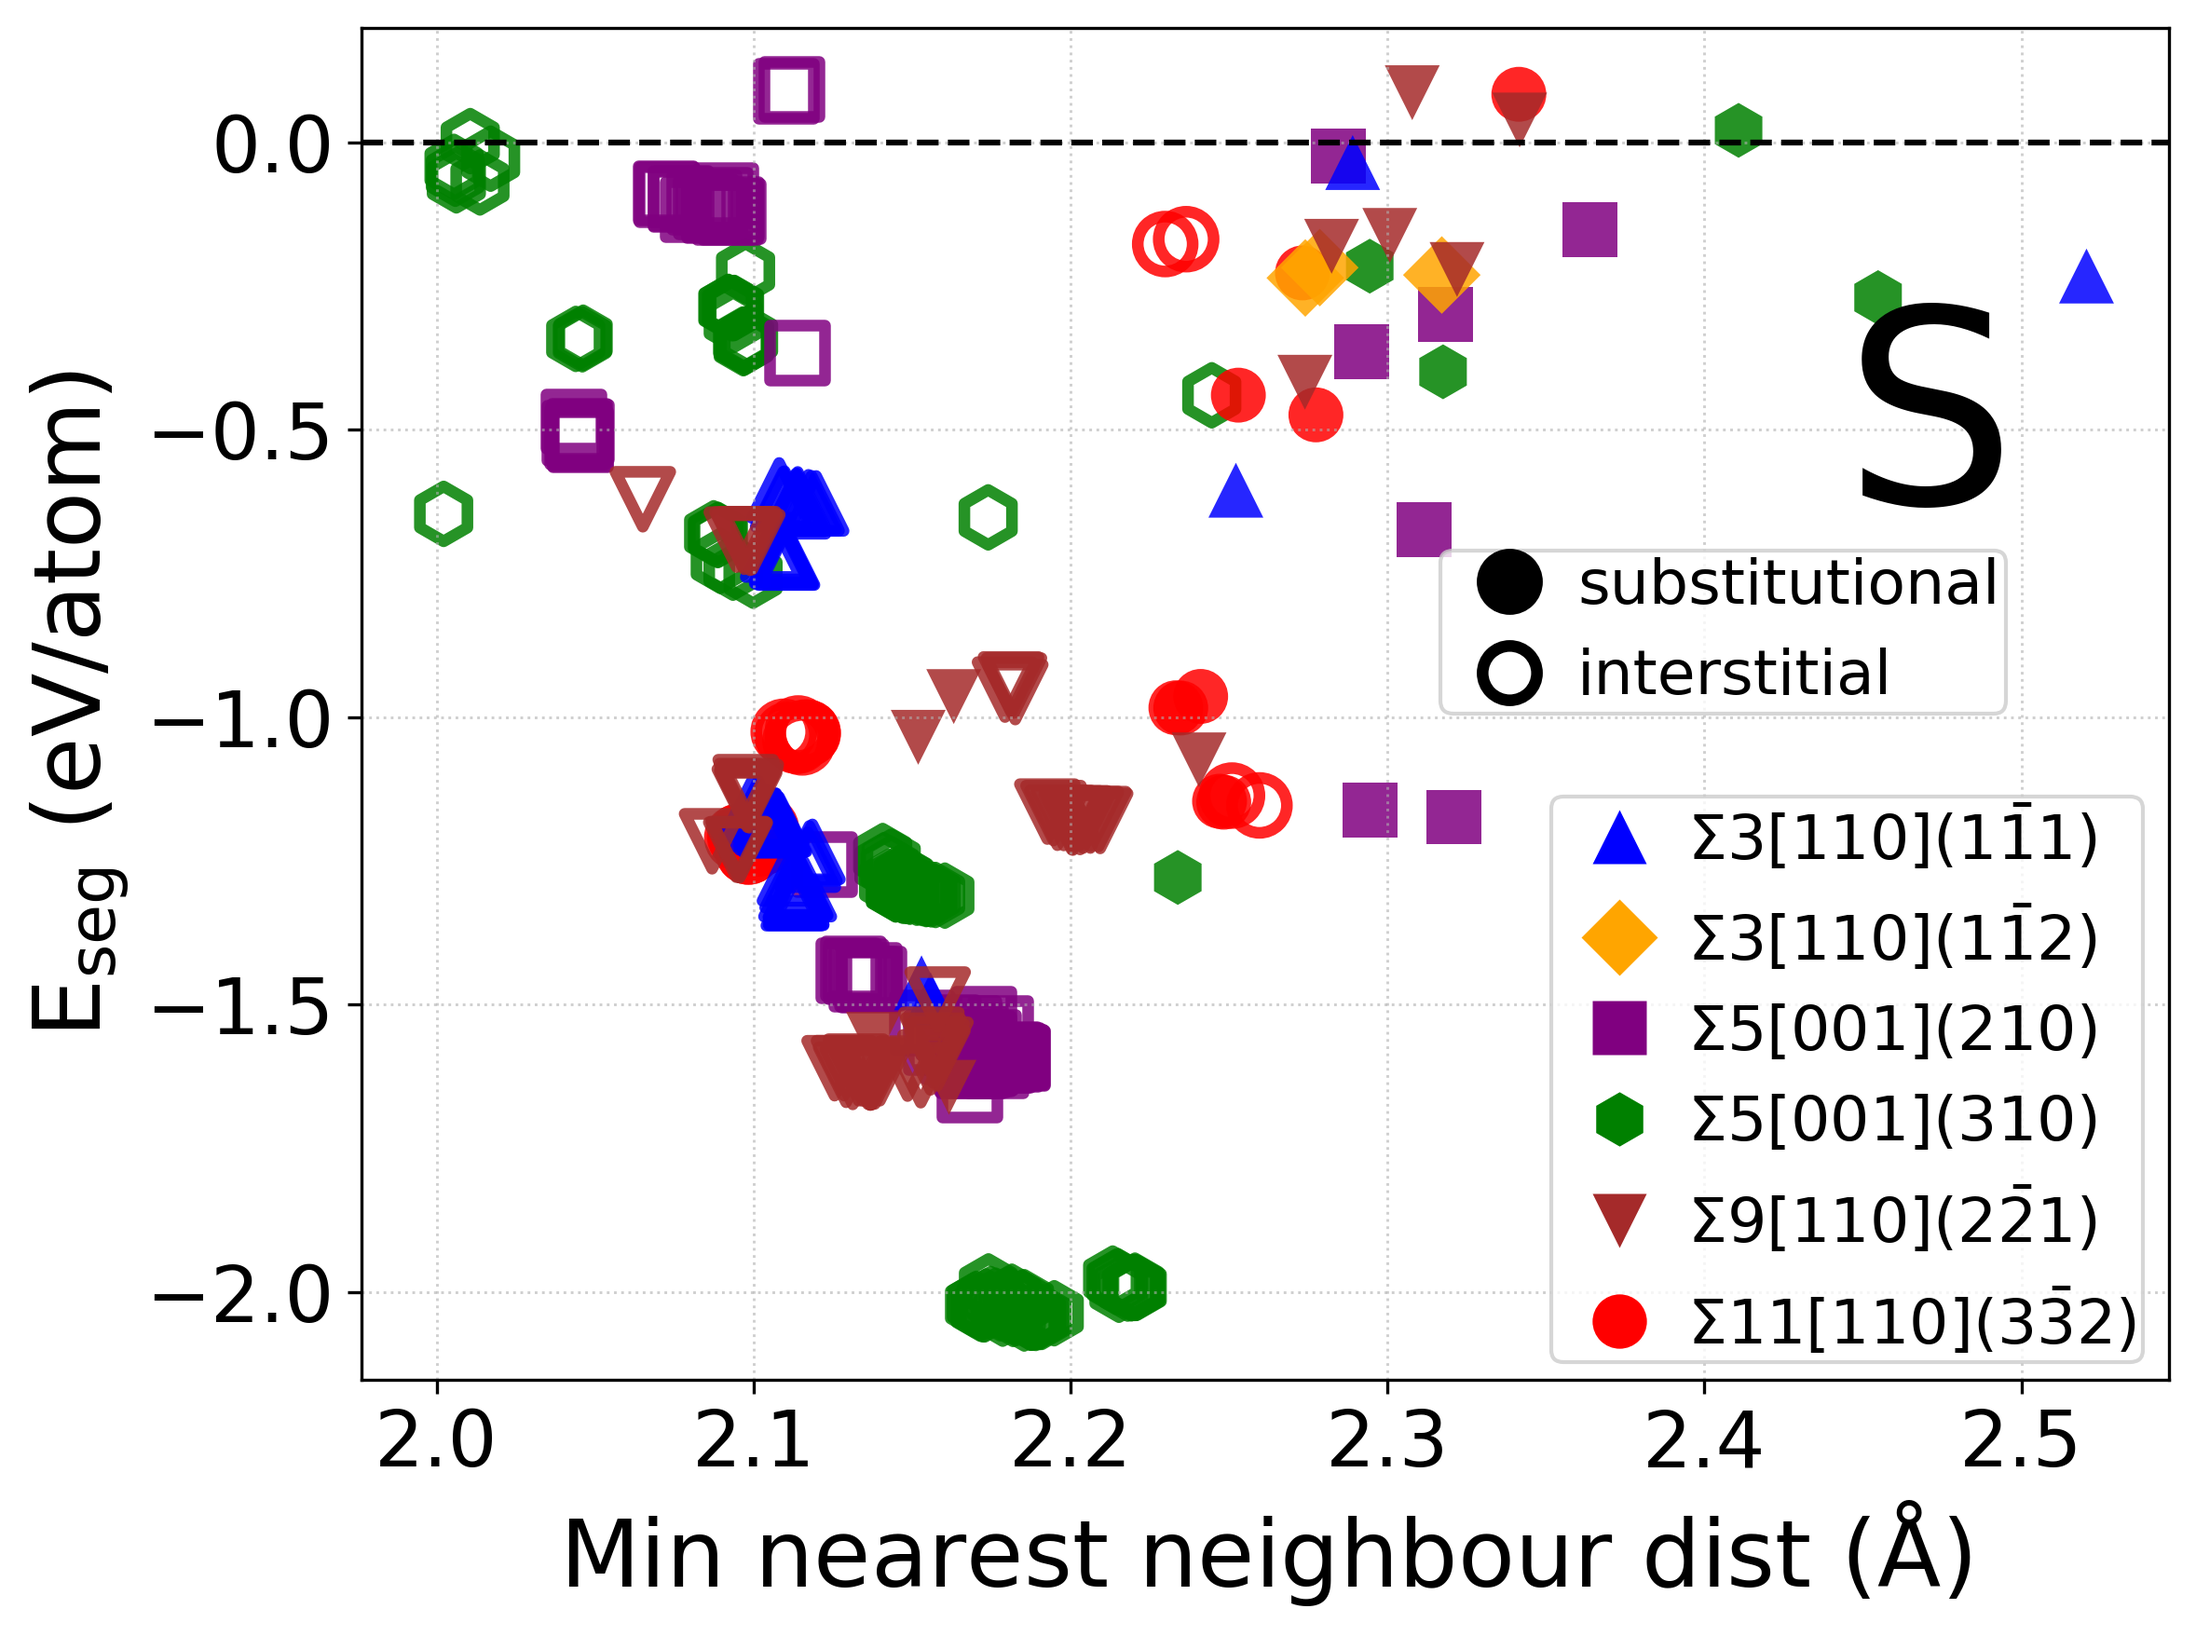
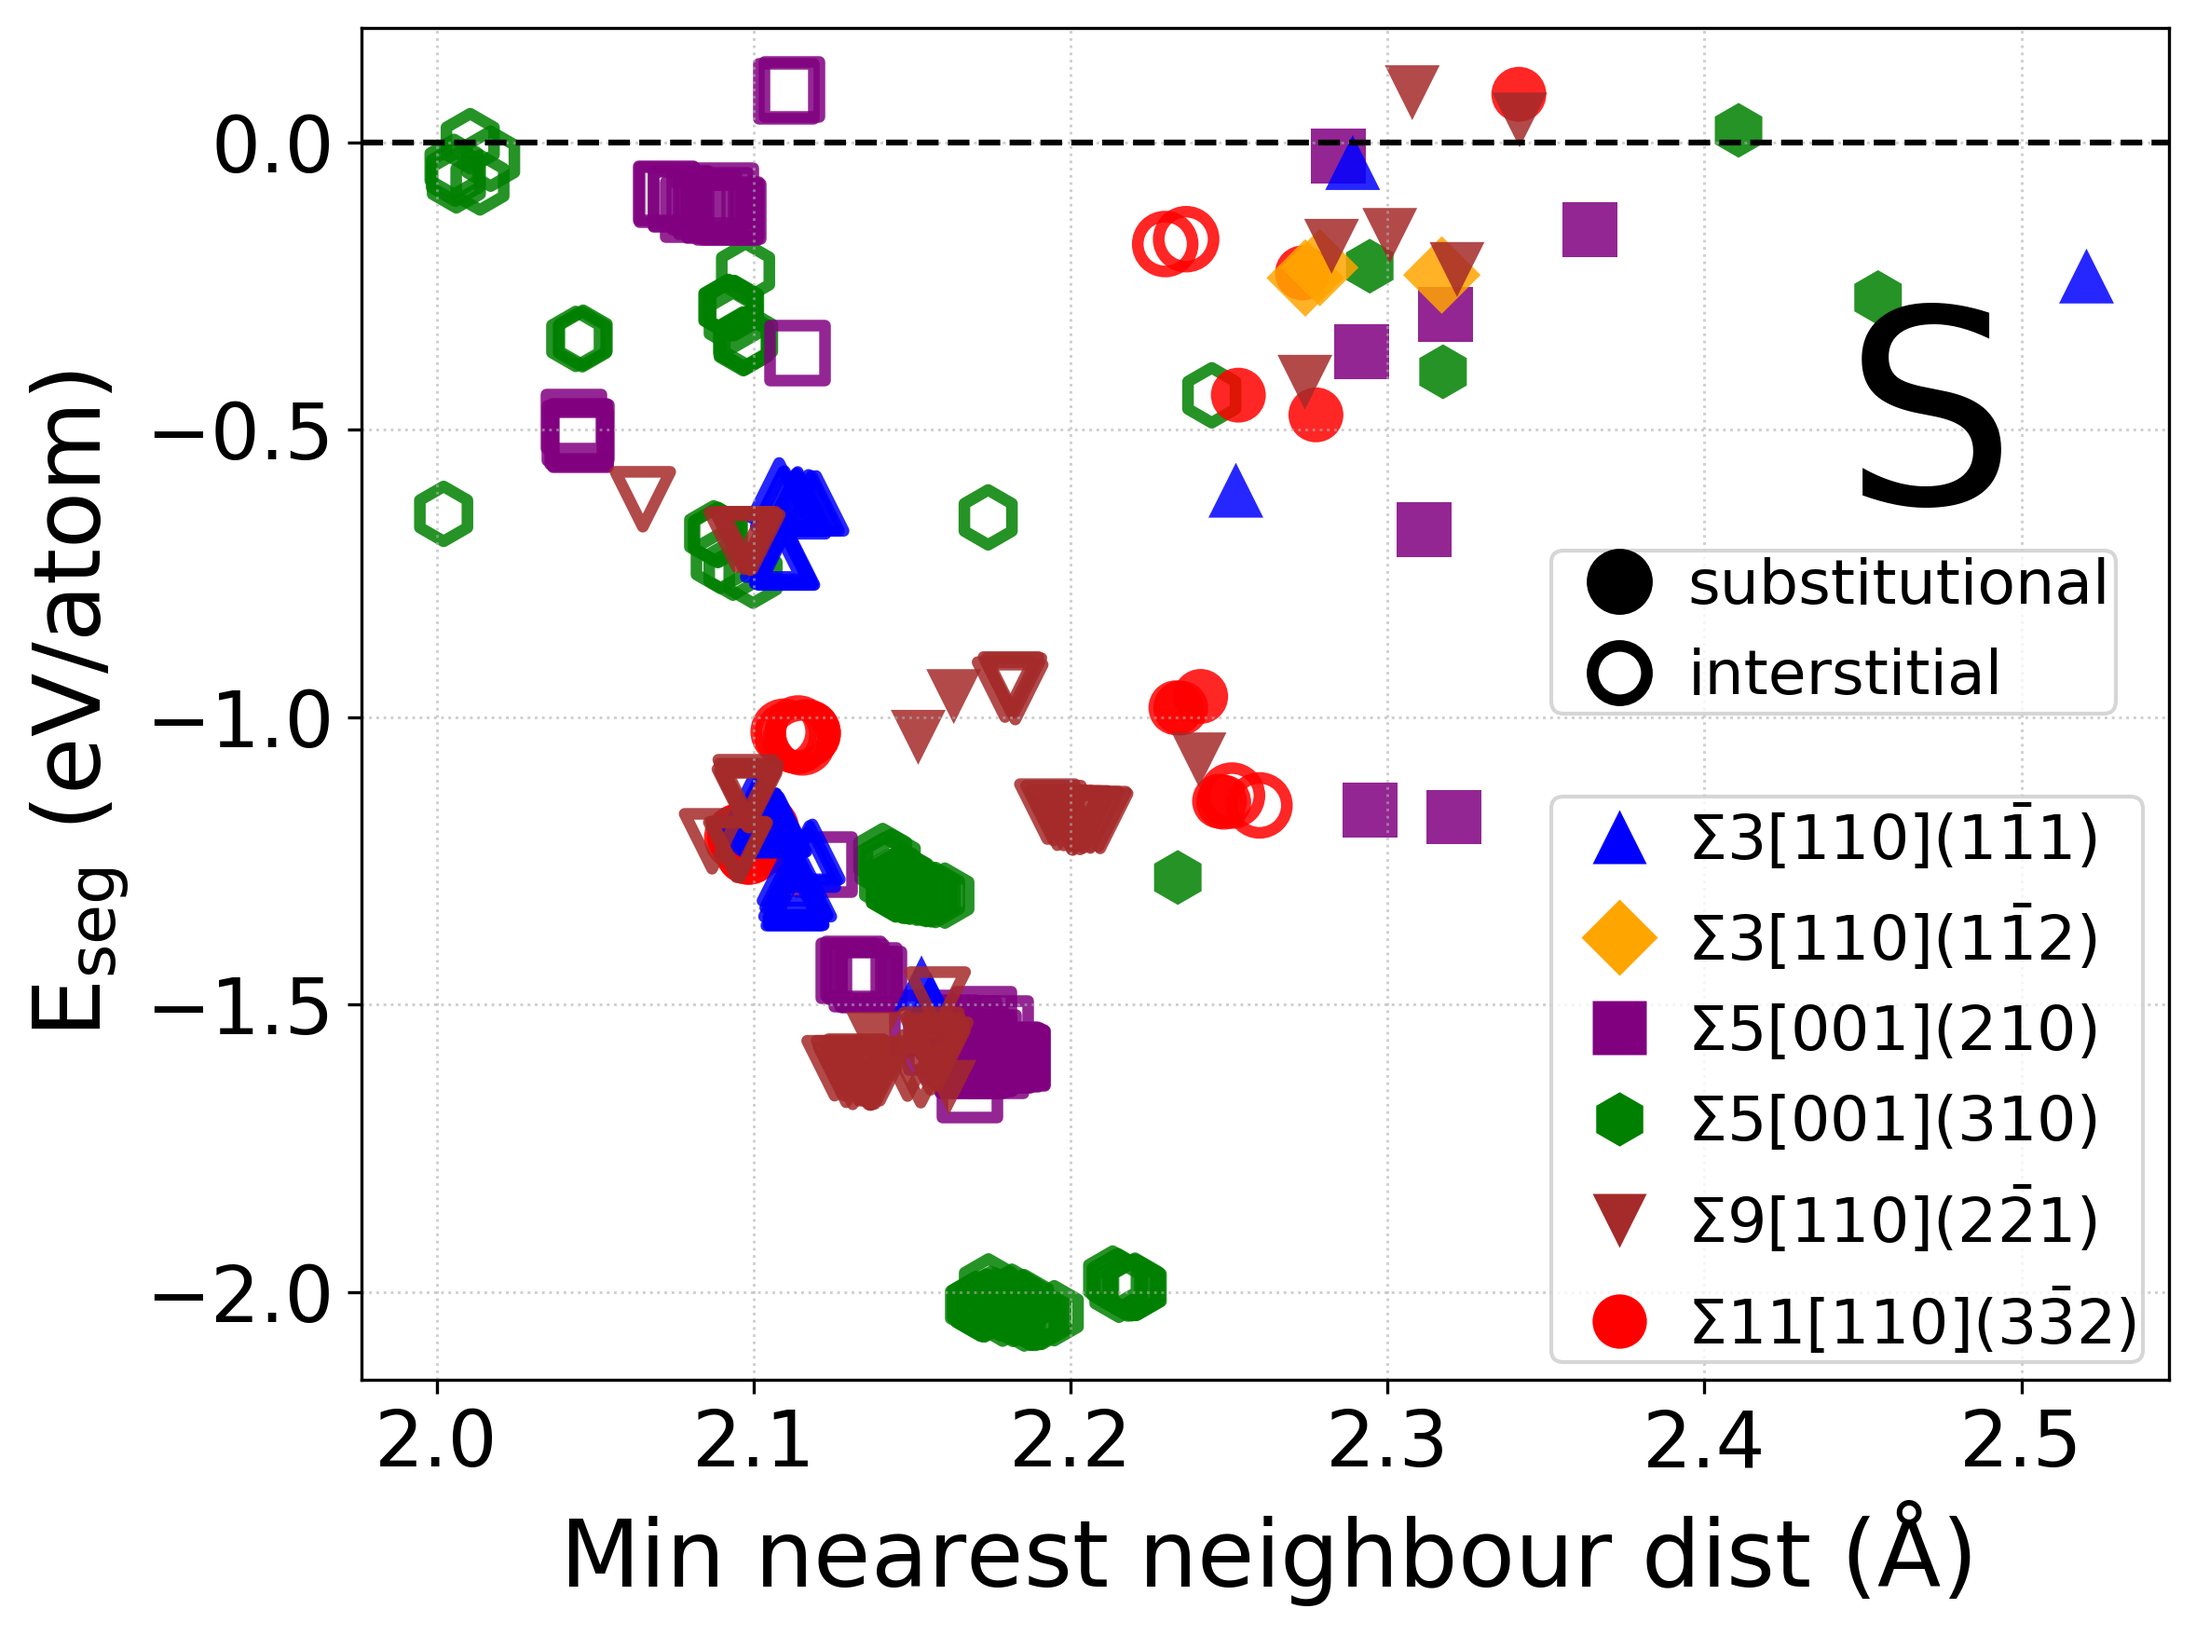
Re-align two-legend layouts in Figs 6/7/8 and shift Fig 10 legend left

Changed region(s): [[0.6504, 0.3383, 0.9601, 0.4305]]

diff --git a/scripts/MainFigures/generate_main_figures.py b/scripts/MainFigures/generate_main_figures.py
@@ -253,7 +253,7 @@ for ele in LIGHT_ELEMENTS:
         y_label=r"E$_{\rm{seg}}$ (eV/atom)",
         show_legend=show, show_style_legend=show,
         legend_anchor=(0.641, -0.01),
-        style_legend_anchor=(0.58, 0.47),
+        style_legend_anchor=(0.641, 0.47),
         **{k: v for k, v in SCATTER_KW.items() if k not in ("legend_anchor", "style_legend_anchor")},
     )
     ax.axhline(0, linestyle="--", color="k")
@@ -344,7 +344,7 @@ if df_main_path.exists():
     SCATTER_KW_WSEP["legend_fontsize"] = 17.5
     SCATTER_KW_WSEP["style_legend_fontsize"] = 17.5
     SCATTER_KW_WSEP["legend_anchor"] = (0.001, 0.00)
-    SCATTER_KW_WSEP["style_legend_anchor"] = (0.325, -0.06)
+    SCATTER_KW_WSEP["style_legend_anchor"] = (0.325, 0.00)
 
     for ele in LIGHT_ELEMENTS:
         df_ele = df_main[(df_main["element"] == ele) & (df_main["VorNN_tot_vol"] < 20) & (df_main["eta_Wsep_RGS_min"] < 3)]
@@ -460,7 +460,7 @@ for ele in LIGHT_ELEMENTS:
     ax.set_ylabel("Count", fontsize=24)
     ax.tick_params(axis="both", labelsize=20)
     if show_legend:
-        ax.legend(fontsize=20, loc="upper center", bbox_to_anchor=(0.42, 1.0))
+        ax.legend(fontsize=20, loc="upper left", bbox_to_anchor=(0.2, 0.98))
     ax.text(0.08, 0.92, ele, transform=ax.transAxes, fontsize=70,
             ha="left", va="top")
     fig.tight_layout()
